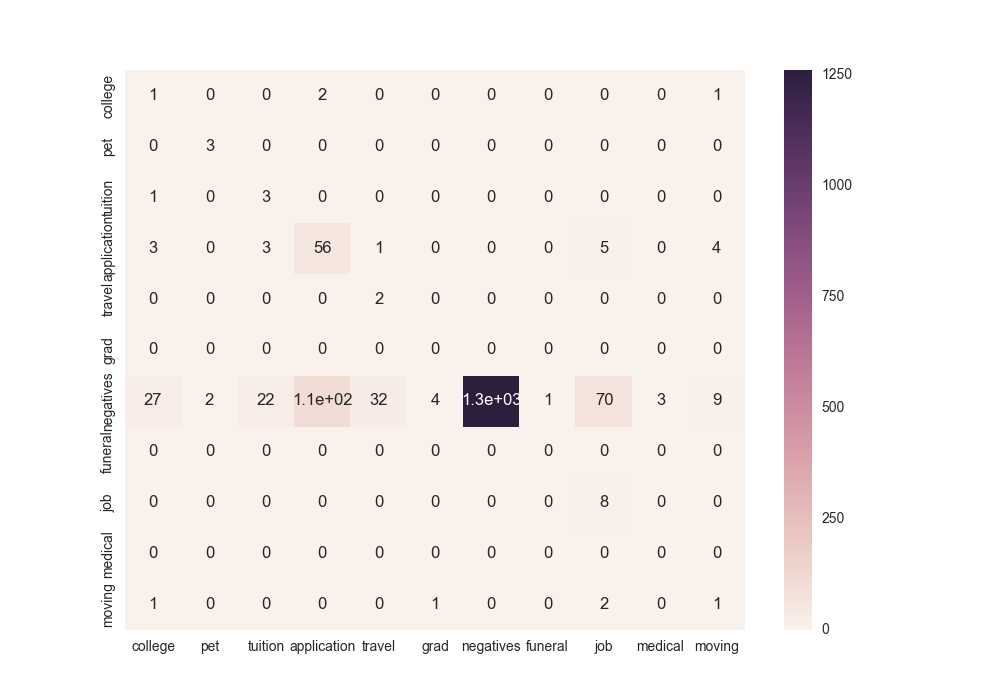
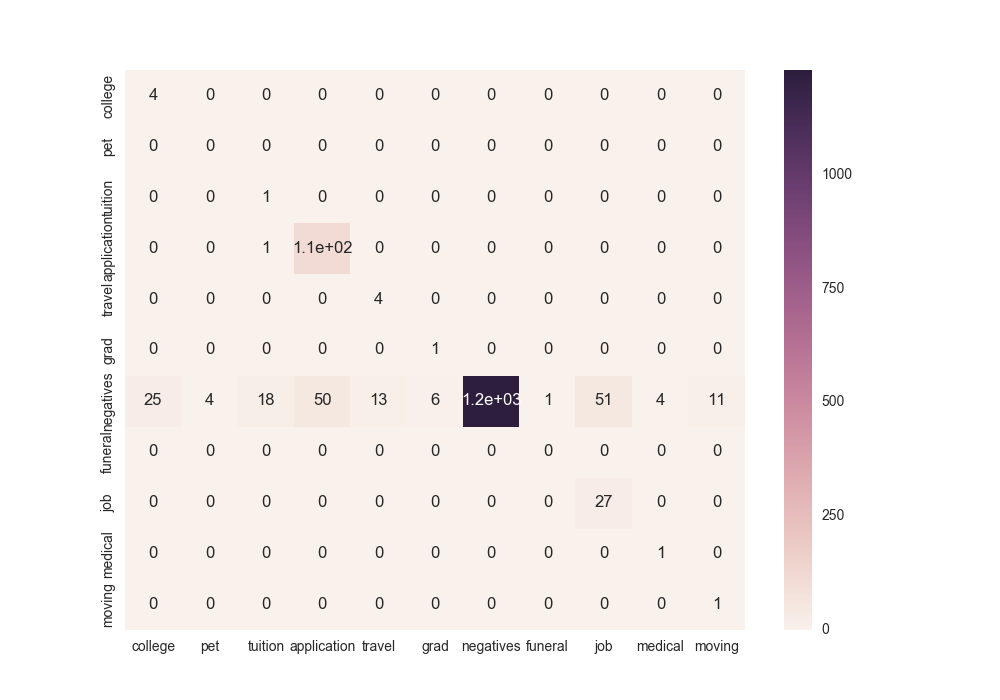
Updated confusion matrix code to use testing set

diff --git a/random_forest_confusion_matrix.py b/random_forest_confusion_matrix.py
@@ -9,47 +9,41 @@ from sklearn.feature_extraction.text import TfidfVectorizer
 from sklearn import linear_model
 from sklearn.metrics import confusion_matrix
 from math import sqrt
+from pickle import load
 
 if __name__ == '__main__':
-    percent_training = .30 # proportion of data to use for training
-
-    # get emails and labels from local mongodb
+    # get training corpus/labels
     emails = []
     label_set = []
     db = utils.get_local_db()
     for collection in db.collection_names():
-        label_set.append(collection)
+        # the [:-6] is to account for the suffix '_clean'
+        label_set.append(collection[:-6])
         for record in db.get_collection(collection).find():
             emails.append([collection] + [record['Text']])
 
-    # shuffle and split emails
-    random.shuffle(emails)
-    training_set = emails[:int(percent_training * len(emails))]
-    testing_set = emails[int(percent_training * len(emails)):]
-    training_labels = [row[0] for row in training_set]
-    training_data = [row[1] for row in training_set]
-    testing_labels = [row[0] for row in testing_set]
-    testing_data = [row[1] for row in testing_set]
-
-    # tf-idf vectorize training set
+    # vectorize corpus
+    labels = [row[0][:-6] for row in emails]
+    data = [row[1] for row in emails]
     vectorizer = TfidfVectorizer()
-    X = vectorizer.fit_transform(training_data)
+    X = vectorizer.fit_transform(data)
     X = X.toarray()
 
-    # tf-idf vectorize testing set
-    vectorized_testing_data = [vectorizer.transform([email]) for email in testing_data]
-    total = len(vectorized_testing_data)
-
-    # create random forest and compute predictions
+    # create random forest
     forest = RandomForestClassifier(n_estimators = int(sqrt(len(X[0])))+1)
-    forest.fit(X, training_labels)
-    predictions = []
-    for i in range(len(vectorized_testing_data)):
-        predictions.append(forest.predict(vectorized_testing_data[i]))
+    forest.fit(X, labels)
+
+    # read in and vectorize testing data
+    with open('intuit_data', 'rb') as f:
+        data = load(f)
+    email_vectors = [vectorizer.transform([email['Text']]) for email in data['data']]
+    email_labels = [label if label != 'negative' else 'negatives' for label in data['label']] # if-else to account for variation in naming
+
+    # predict classification
+    predicted_email_labels = [forest.predict(email_vector)[0] for email_vector in email_vectors]
 
     # generate confusion matrix: C_i,j is equal to the number of observations known to be in group i but predicted to be in group j
-    cm = confusion_matrix(predictions, testing_labels, labels=label_set)
-    label_set = [label[:-6] for label in label_set]
+    cm = confusion_matrix(predicted_email_labels, email_labels, labels=label_set)
     df_cm = pd.DataFrame(cm, index=label_set, columns=label_set)
     plt.figure(figsize = (10,7))
     sn.heatmap(df_cm, annot=True)
